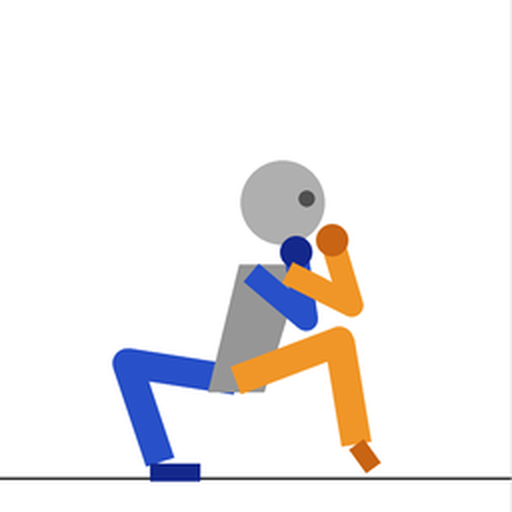
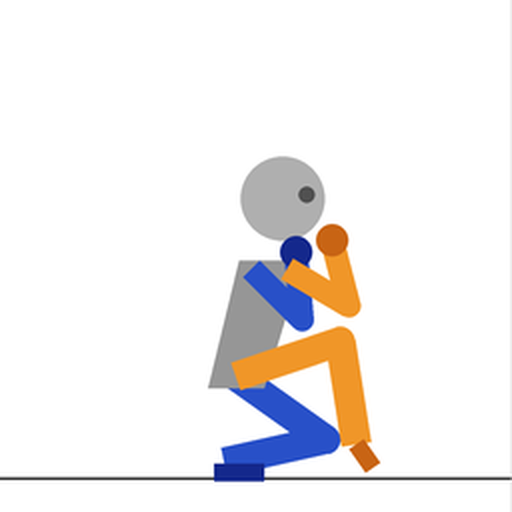
pose_guide: anatomical IK (knees fold back, elbows forward), floor check; crouch and sweep guides as squats with both knees forward
Claude-Session: https://claude.ai/code/session_01C1fwd4EURPGqUfp38heDDX

diff --git a/tools/pose_guide.py b/tools/pose_guide.py
@@ -33,7 +33,7 @@ def P(**kw):
 
 
 # crouch (about 150 px high, as the crouch sprites)
-CROUCH = dict(squat=True, hip=(118, 190), lean=20, lead_foot=(164, 231), rear_foot=(80, 231),
+CROUCH = dict(squat=True, hip=(118, 188), lean=20, lead_foot=(166, 231), rear_foot=(112, 231),
               lead_hand=(166, 120), rear_hand=(148, 126))
 
 
@@ -51,10 +51,10 @@ def crouch_attacks():
         'c_lk': [Q(lead_foot=(178, 222), lean=16),
                  Q(lead_foot=(236, 226), lean=8, hip=(114, 192)),       # foot along the floor, ankle height
                  Q(lead_foot=(184, 228), lean=14)],
-        'sweep': [Q(hip=(112, 204), lean=34, rear_hand=(98, 232), lead_hand=(168, 168), lead_foot=(158, 231)),
-                  Q(hip=(110, 206), lean=38, rear_hand=(96, 232), lead_hand=(166, 174),
+        'sweep': [Q(hip=(112, 198), lean=34, rear_hand=(84, 232), lead_hand=(168, 168), lead_foot=(158, 231), rear_foot=(118, 231)),
+                  Q(hip=(110, 200), lean=38, rear_hand=(82, 232), lead_hand=(166, 174), rear_foot=(116, 231),
                     lead_foot=(236, 228), arrow=((170, 236), (226, 236))),   # leg sweeps along the floor
-                  Q(hip=(112, 204), lean=34, rear_hand=(98, 232), lead_hand=(168, 170),
+                  Q(hip=(112, 198), lean=34, rear_hand=(84, 232), lead_hand=(168, 170), rear_foot=(118, 231),
                     lead_foot=(196, 230), arrow=((232, 222), (204, 222))),
                   Q()],
     }
@@ -78,7 +78,7 @@ POSES = {
                P(rear_foot=(228, 72), lean=-24, hip=(112, 124), lead_foot=(140, 231),
                  lead_hand=(150, 96), rear_hand=(100, 110)),                              # martelo, x 207-240 y 56-85
                P(rear_foot=(170, 150), lean=-12, hip=(120, 126), lead_foot=(140, 231)),
-               P(rear_foot=(96, 231), lean=0)],
+               P(rear_foot=(116, 231), lean=0)],
     },
     'konrad': {
         'lp': [P(lead_hand=(180, 78), lean=8),
@@ -109,6 +109,27 @@ POSES = {
 
 for _f in POSES:
     POSES[_f].update(crouch_attacks())
+
+
+def fwd_angle(a, b):
+    """direction a -> b as an angle from straight down, positive towards the front (+x), degrees"""
+    return math.degrees(math.atan2(b[0] - a[0], b[1] - a[1]))
+
+
+def joint(root, target, l1, l2, leg):
+    """two-bone IK with a human joint: a knee only bends so that the shin folds BACK behind the thigh
+    (shin angle <= thigh angle), an elbow only so that the forearm folds FORWARD/UP (forearm angle >=
+    upper-arm angle). Of the two IK solutions the anatomically possible one is taken."""
+    best = None
+    for bend in (1, -1):
+        j, e = ik(root, target, l1, l2, bend)
+        a1, a2 = fwd_angle(root, j), fwd_angle(j, e)
+        d = (a1 - a2) if leg else (a2 - a1)
+        d = (d + 180) % 360 - 180
+        score = d if d >= -1 else -1000 + d
+        if best is None or score > best[0]:
+            best = (score, j, e)
+    return best[1], best[2]
 
 
 def ik(root, target, l1, l2, bend):
@@ -148,12 +169,8 @@ def draw(pose, d, ox):
             dx, dy = foot[0] - knee[0], foot[1] - knee[1]
             n = math.hypot(dx, dy) or 1
             ank = (knee[0] + SHIN * dx / n, knee[1] + SHIN * dy / n)
-        elif pose.get('squat'):                    # crouch: of the two knee positions the higher one
-            k1, a1 = ik(hip, foot, THIGH, SHIN, 1)
-            k2, a2 = ik(hip, foot, THIGH, SHIN, -1)
-            knee, ank = (k1, a1) if k1[1] <= k2[1] else (k2, a2)
         else:
-            knee, ank = ik(hip, foot, THIGH, SHIN, bend)
+            knee, ank = joint(hip, foot, THIGH, SHIN, leg=True)
         L([hip, knee, ank], cols[0], 15)
         on_floor = ank[1] > GROUND - 14
         if on_floor:
@@ -168,7 +185,7 @@ def draw(pose, d, ox):
         if elbow_key in pose:
             el = pose[elbow_key]
         else:
-            el, hand = ik(sh, hand, UPPER, FORE, bend)
+            el, hand = joint(sh, hand, UPPER, FORE, leg=False)
         L([sh, el, hand], cols[0], 12)
         C(hand, 8, cols[1])
 
@@ -193,8 +210,22 @@ def draw(pose, d, ox):
             L([(x1, y1), (x1 + 10 * math.cos(ang + da), y1 + 10 * math.sin(ang + da))], (120, 120, 120), 3)
 
 
+def check_floor():
+    bad = []
+    for f, anims in POSES.items():
+        for a, frames in anims.items():
+            for k, p in enumerate(frames):
+                for foot in ('lead_foot', 'rear_foot'):
+                    kn = p.get(foot.replace('foot', 'knee')) or joint(p['hip'], p[foot], THIGH, SHIN, leg=True)[0]
+                    if kn[1] > GROUND - 4:
+                        bad.append(f'{f} {a} {k + 1} {foot[:4]} knee y {kn[1]:.0f}')
+    return bad
+
+
 def main():
     OUT.mkdir(parents=True, exist_ok=True)
+    for b in check_floor():
+        print('warning: knee below the floor:', b)
     for fighter, anims in POSES.items():
         for anim, frames in anims.items():
             n = len(frames)
